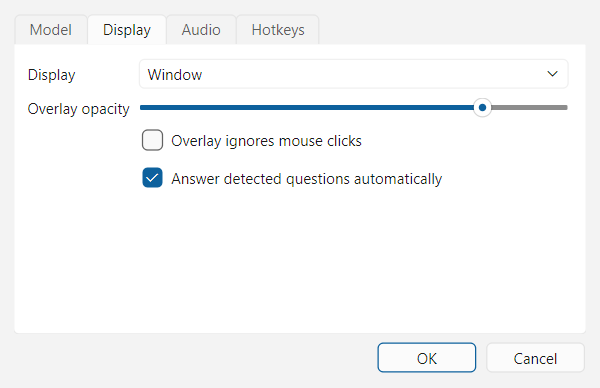
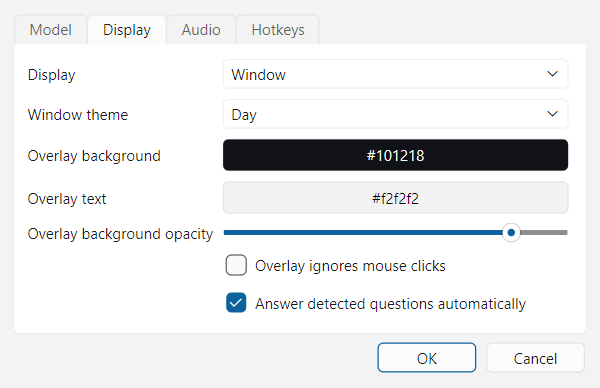
Add day/night theme for the hint window and custom overlay colors

diff --git a/src/shade/ui/settings_dialog.py b/src/shade/ui/settings_dialog.py
@@ -7,8 +7,10 @@ import os
 from dataclasses import replace
 
 from PySide6.QtCore import Qt
+from PySide6.QtGui import QColor
 from PySide6.QtWidgets import (
     QCheckBox,
+    QColorDialog,
     QComboBox,
     QDialog,
     QDialogButtonBox,
@@ -98,9 +100,23 @@ class SettingsDialog(QDialog):
         self.display_mode.addItem("Window", "window")
         self.display_mode.addItem("Overlay", "overlay")
         self.display_mode.setCurrentIndex(self.display_mode.findData(settings.display_mode))
+        self.window_theme = QComboBox()
+        self.window_theme.addItem("Day", "day")
+        self.window_theme.addItem("Night", "night")
+        self.window_theme.setCurrentIndex(max(0, self.window_theme.findData(settings.window_theme)))
         self.opacity = QSlider(Qt.Orientation.Horizontal)
-        self.opacity.setRange(20, 100)
+        self.opacity.setRange(0, 100)
         self.opacity.setValue(round(settings.overlay_opacity * 100))
+        self.overlay_bg_button = QPushButton()
+        self.overlay_text_button = QPushButton()
+        self.overlay_bg_button.clicked.connect(
+            lambda: self._pick_color(self._overlay_bg, self.set_overlay_bg, "Overlay background")
+        )
+        self.overlay_text_button.clicked.connect(
+            lambda: self._pick_color(self._overlay_text, self.set_overlay_text, "Overlay text")
+        )
+        self.set_overlay_bg(settings.overlay_bg_color)
+        self.set_overlay_text(settings.overlay_text_color)
         self.click_through = QCheckBox("Overlay ignores mouse clicks")
         self.click_through.setChecked(settings.click_through)
         self.auto = QCheckBox("Answer detected questions automatically")
@@ -136,7 +152,10 @@ class SettingsDialog(QDialog):
         display_tab = QWidget()
         dt = QFormLayout(display_tab)
         dt.addRow("Display", self.display_mode)
-        dt.addRow("Overlay opacity", self.opacity)
+        dt.addRow("Window theme", self.window_theme)
+        dt.addRow("Overlay background", self.overlay_bg_button)
+        dt.addRow("Overlay text", self.overlay_text_button)
+        dt.addRow("Overlay background opacity", self.opacity)
         dt.addRow("", self.click_through)
         dt.addRow("", self.auto)
 
@@ -169,6 +188,27 @@ class SettingsDialog(QDialog):
         self.provider.currentIndexChanged.connect(self._on_provider_changed)
         self.provider.setCurrentIndex(max(0, self.provider.findData(settings.provider)))
         self._on_provider_changed()
+
+    # ---- colors -----------------------------------------------------------
+
+    @staticmethod
+    def _paint_swatch(button: QPushButton, color: str) -> None:
+        text = "#000000" if QColor(color).lightness() > 140 else "#ffffff"
+        button.setText(color)
+        button.setStyleSheet(f"background: {color}; color: {text}; padding: 4px 10px;")
+
+    def set_overlay_bg(self, color: str) -> None:
+        self._overlay_bg = color
+        self._paint_swatch(self.overlay_bg_button, color)
+
+    def set_overlay_text(self, color: str) -> None:
+        self._overlay_text = color
+        self._paint_swatch(self.overlay_text_button, color)
+
+    def _pick_color(self, current: str, setter, title: str) -> None:
+        chosen = QColorDialog.getColor(QColor(current), self, title)
+        if chosen.isValid():
+            setter(chosen.name())
 
     # ---- presets ----------------------------------------------------------
 
@@ -239,7 +279,10 @@ class SettingsDialog(QDialog):
             claude_effort=self.claude_effort.currentText(),
             presets=copy.deepcopy(self._presets),
             display_mode=self.display_mode.currentData(),
+            window_theme=self.window_theme.currentData(),
             overlay_opacity=self.opacity.value() / 100,
+            overlay_bg_color=self._overlay_bg,
+            overlay_text_color=self._overlay_text,
             click_through=self.click_through.isChecked(),
             auto_enabled=self.auto.isChecked(),
             mic_device=self.mic.currentData(),

diff --git a/tests/test_theme.py b/tests/test_theme.py
@@ -1,0 +1,76 @@
+from shade.config import Settings
+from shade.ui.settings_dialog import SettingsDialog
+from shade.ui.theme import overlay_stylesheet, window_stylesheet
+
+DEVICES = {"mic": [], "loopback": []}
+
+
+def test_defaults():
+    s = Settings()
+    assert s.window_theme == "day"
+    assert s.overlay_bg_color == "#101218"
+    assert s.overlay_text_color == "#f2f2f2"
+
+
+def test_window_themes_differ_and_set_colors():
+    day, night = window_stylesheet("day"), window_stylesheet("night")
+    assert day != night
+    assert "#1e1f24" in night  # night background
+    assert "#ffffff" in day
+
+
+def test_overlay_stylesheet_uses_colors_and_alpha():
+    css = overlay_stylesheet("#ff0000", "#00ff00", 0.5)
+    assert "rgba(255, 0, 0, 128)" in css
+    assert "color: #00ff00" in css
+
+
+def test_overlay_opacity_bounds():
+    assert "rgba(0, 0, 0, 255)" in overlay_stylesheet("#000000", "#ffffff", 1.0)
+    assert "rgba(0, 0, 0, 0)" in overlay_stylesheet("#000000", "#ffffff", 0.0)
+
+
+def test_dialog_edits_theme_and_colors(qtbot):
+    d = SettingsDialog(Settings(), DEVICES)
+    qtbot.addWidget(d)
+    d.window_theme.setCurrentIndex(d.window_theme.findData("night"))
+    d.set_overlay_bg("#202040")
+    d.set_overlay_text("#ffee88")
+    s = d.result_settings()
+    assert s.window_theme == "night"
+    assert s.overlay_bg_color == "#202040"
+    assert s.overlay_text_color == "#ffee88"
+
+
+def test_dialog_theme_controls_on_display_tab(qtbot):
+    d = SettingsDialog(Settings(), DEVICES)
+    qtbot.addWidget(d)
+    tab = d.tabs.widget(1)
+    for w in (d.window_theme, d.overlay_bg_button, d.overlay_text_button, d.opacity):
+        assert tab.isAncestorOf(w)
+
+
+def test_main_window_has_min_max_close_buttons(qtbot):
+    from PySide6.QtCore import Qt
+
+    from shade.ui.main_window import MainWindow
+
+    w = MainWindow()
+    qtbot.addWidget(w)
+    flags = w.windowFlags()
+    for hint in (
+        Qt.WindowType.WindowMinimizeButtonHint,
+        Qt.WindowType.WindowMaximizeButtonHint,
+        Qt.WindowType.WindowCloseButtonHint,
+    ):
+        assert flags & hint
+
+
+def test_main_window_theme_switch(qtbot):
+    from shade.ui.main_window import MainWindow
+
+    w = MainWindow("night")
+    qtbot.addWidget(w)
+    assert "#1e1f24" in w.styleSheet()
+    w.apply_theme("day")
+    assert "#1e1f24" not in w.styleSheet()

diff --git a/src/shade/ui/overlay.py b/src/shade/ui/overlay.py
@@ -7,6 +7,7 @@ from PySide6.QtWidgets import QVBoxLayout, QWidget
 
 from shade.ui.capture_guard import CaptureExcluded
 from shade.ui.hint_view import HintView
+from shade.ui.theme import overlay_stylesheet
 
 BASE_FLAGS = (
     Qt.WindowType.FramelessWindowHint
@@ -16,18 +17,17 @@ BASE_FLAGS = (
 
 
 class Overlay(CaptureExcluded, QWidget):
-    def __init__(self, opacity: float = 0.85, click_through: bool = False) -> None:
+    def __init__(
+        self,
+        opacity: float = 0.85,
+        click_through: bool = False,
+        bg_color: str = "#101218",
+        text_color: str = "#f2f2f2",
+    ) -> None:
         super().__init__(None, BASE_FLAGS)
         self.setAttribute(Qt.WidgetAttribute.WA_TranslucentBackground)
-        self.setWindowOpacity(opacity)
         self.setObjectName("overlay")
-        self.setStyleSheet(
-            "#overlay { background: transparent; }"
-            "QTextBrowser, QPlainTextEdit { background: rgba(16, 18, 24, 215); color: #f2f2f2;"
-            " border: 1px solid rgba(255,255,255,40); border-radius: 8px; }"
-            "QLabel { color: #f2f2f2; background: rgba(16,18,24,180); border-radius: 4px;"
-            " padding: 2px 6px; }"
-        )
+        self.apply_style(bg_color, text_color, opacity)
         self.view = HintView(transcript_lines=3, show_history=False, font_size=12, compact=True)
         layout = QVBoxLayout(self)
         layout.setContentsMargins(0, 0, 0, 0)
@@ -39,6 +39,10 @@ class Overlay(CaptureExcluded, QWidget):
         self._drag_from: QPoint | None = None
         self.click_through = False
         self.set_click_through(click_through)
+
+    def apply_style(self, bg_color: str, text_color: str, opacity: float) -> None:
+        # Opacity applies to the background only, so text stays crisp.
+        self.setStyleSheet(overlay_stylesheet(bg_color, text_color, opacity))
 
     def set_click_through(self, on: bool) -> None:
         self.click_through = on

diff --git a/src/shade/ui/theme.py b/src/shade/ui/theme.py
@@ -1,0 +1,41 @@
+"""Stylesheets for the hint window (day/night) and the overlay (custom colors)."""
+
+from __future__ import annotations
+
+from PySide6.QtGui import QColor
+
+WINDOW_THEMES = {
+    "day": {"bg": "#f3f3f3", "panel": "#ffffff", "text": "#1b1b1f", "muted": "#5b5f6b",
+            "border": "#d0d3da", "accent": "#3b3f8f"},
+    "night": {"bg": "#1e1f24", "panel": "#26282f", "text": "#e8e8ec", "muted": "#a0a4b0",
+              "border": "#3a3d47", "accent": "#8b90ff"},
+}
+
+
+def window_stylesheet(theme: str) -> str:
+    c = WINDOW_THEMES.get(theme, WINDOW_THEMES["day"])
+    return f"""
+QMainWindow, QWidget {{ background: {c['bg']}; color: {c['text']}; }}
+QTextBrowser, QPlainTextEdit {{ background: {c['panel']}; color: {c['text']};
+    border: 1px solid {c['border']}; border-radius: 6px; }}
+QLabel#status {{ color: {c['muted']}; }}
+QTabWidget::pane {{ border: 1px solid {c['border']}; }}
+QTabBar::tab {{ background: {c['bg']}; color: {c['muted']}; padding: 4px 12px;
+    border: 1px solid {c['border']}; border-bottom: none; }}
+QTabBar::tab:selected {{ background: {c['panel']}; color: {c['text']}; }}
+QSplitter::handle {{ background: {c['border']}; }}
+a {{ color: {c['accent']}; }}
+"""
+
+
+def overlay_stylesheet(bg: str, text: str, opacity: float) -> str:
+    """Panels get the background color with `opacity` as alpha; text stays opaque."""
+    col = QColor(bg)
+    alpha = round(max(0.0, min(1.0, opacity)) * 255)
+    rgba = f"rgba({col.red()}, {col.green()}, {col.blue()}, {alpha})"
+    return (
+        "#overlay { background: transparent; }"
+        f"QTextBrowser, QPlainTextEdit {{ background: {rgba}; color: {text};"
+        " border: 1px solid rgba(255,255,255,40); border-radius: 8px; }"
+        f"QLabel {{ color: {text}; background: {rgba}; border-radius: 4px; padding: 2px 6px; }}"
+    )

diff --git a/src/shade/ui/app.py b/src/shade/ui/app.py
@@ -119,8 +119,13 @@ class ShadeApp(QObject):
         self.vram_timer.setInterval(10_000)
         self.vram_timer.timeout.connect(self._check_vram)
 
-        self.window = MainWindow()
-        self.overlay = Overlay(self.settings.overlay_opacity, self.settings.click_through)
+        self.window = MainWindow(self.settings.window_theme)
+        self.overlay = Overlay(
+            self.settings.overlay_opacity,
+            self.settings.click_through,
+            self.settings.overlay_bg_color,
+            self.settings.overlay_text_color,
+        )
         for view in (self.window.view, self.overlay.view):
             self.bridge.event.connect(view.handle)
 
@@ -327,7 +332,8 @@ class ShadeApp(QObject):
         self.settings = new
         save_settings(new, self.settings_path)
         # Display and behavior apply now.
-        self.overlay.setWindowOpacity(new.overlay_opacity)
+        self.window.apply_theme(new.window_theme)
+        self.overlay.apply_style(new.overlay_bg_color, new.overlay_text_color, new.overlay_opacity)
         if new.click_through != self.overlay.click_through:
             self.overlay.set_click_through(new.click_through)
         self.set_auto(new.auto_enabled)

diff --git a/src/shade/ui/main_window.py b/src/shade/ui/main_window.py
@@ -7,18 +7,23 @@ from PySide6.QtWidgets import QMainWindow
 
 from shade.ui.capture_guard import CaptureExcluded
 from shade.ui.hint_view import HintView
+from shade.ui.theme import window_stylesheet
 
 
 class MainWindow(CaptureExcluded, QMainWindow):
-    def __init__(self) -> None:
+    def __init__(self, theme: str = "day") -> None:
         super().__init__()
         self.setWindowTitle("Shade")
         self.view = HintView(transcript_lines=None, show_history=True)
         self.setCentralWidget(self.view)
+        self.apply_theme(theme)
         self.resize(560, 760)
         geometry = QSettings("Shade", "Shade").value("main_window/geometry")
         if geometry is not None:
             self.restoreGeometry(geometry)
+
+    def apply_theme(self, theme: str) -> None:
+        self.setStyleSheet(window_stylesheet(theme))
 
     def closeEvent(self, event):  # noqa: N802
         QSettings("Shade", "Shade").setValue("main_window/geometry", self.saveGeometry())

diff --git a/src/shade/config.py b/src/shade/config.py
@@ -66,7 +66,10 @@ class Settings:
     claude_detector_model: str = "claude-haiku-5-5"
     presets: dict[str, dict] = field(default_factory=lambda: copy.deepcopy(DEFAULT_PRESETS))
     display_mode: str = "window"
-    overlay_opacity: float = 0.85
+    window_theme: str = "day"  # "day" | "night"
+    overlay_opacity: float = 0.85  # background alpha; text stays opaque
+    overlay_bg_color: str = "#101218"
+    overlay_text_color: str = "#f2f2f2"
     click_through: bool = False
     auto_enabled: bool = True
     mic_device: str | None = None

diff --git a/README.md b/README.md
@@ -23,13 +23,25 @@ other side's screen.
 **Hint window** — the current hint on top (say the first lines out loud);
 below it, tabs with the live **Transcript** and the **History** of earlier
 hints. The status line shows the trigger, the model and the session cost.
+A normal window with minimize, maximize and close (close hides it to the
+tray); **Day** or **Night** theme in Settings → Display.
 
-<img src="docs/images/hint-window.png" alt="Hint window during an interview" width="560">
+<p>
+  <img src="docs/images/hint-window-day.png" alt="Hint window, day theme" width="420">
+  &nbsp;
+  <img src="docs/images/hint-window-night.png" alt="Hint window, night theme" width="420">
+</p>
 
 **Overlay** — the same hint on a semi-transparent layer over the call, with
-the last three transcript lines. Hidden from screen sharing.
+the last three transcript lines. Hidden from screen sharing. Background
+color, text color and background opacity are set in Settings → Display;
+the text itself stays fully opaque.
 
-<img src="docs/images/overlay.png" alt="Overlay over a video call" width="560">
+<p>
+  <img src="docs/images/overlay-dark.png" alt="Overlay, dark background" width="420">
+  &nbsp;
+  <img src="docs/images/overlay-light.png" alt="Overlay, light background with dark text" width="420">
+</p>
 
 **Tray menu and settings** — Shade lives in the system tray (the purple
 **S**). Right-click it for the menu; **Settings…** has four tabs.
